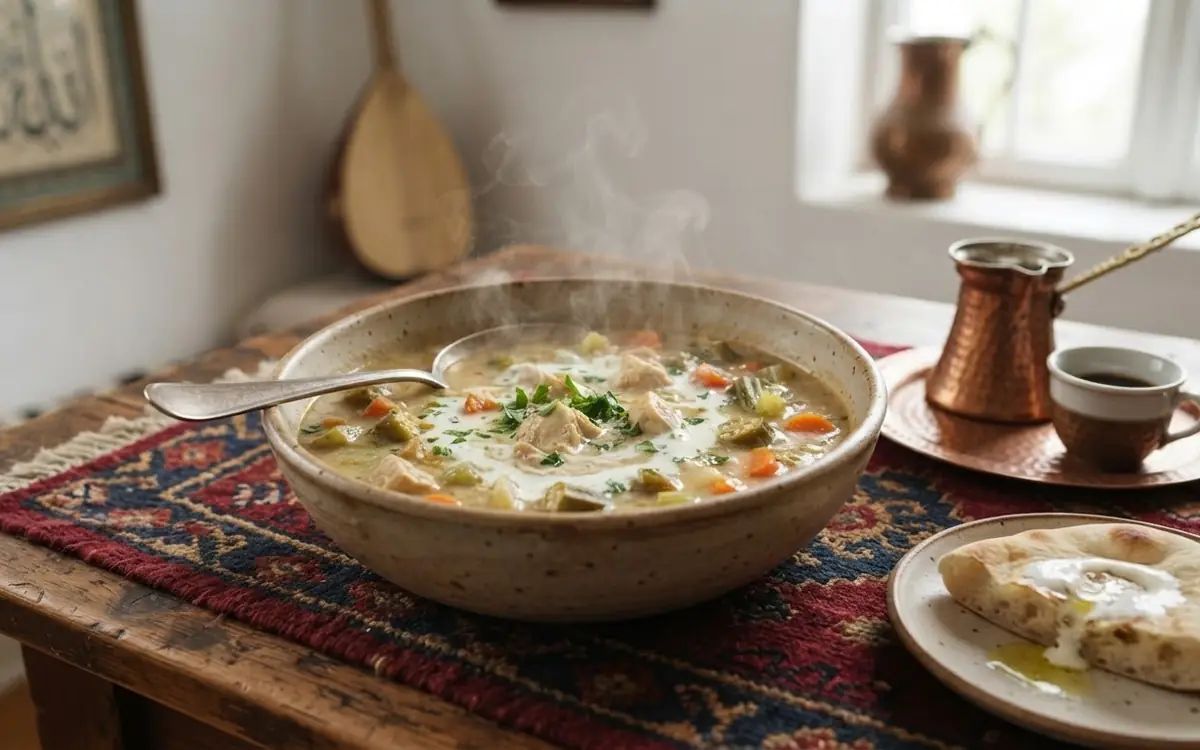
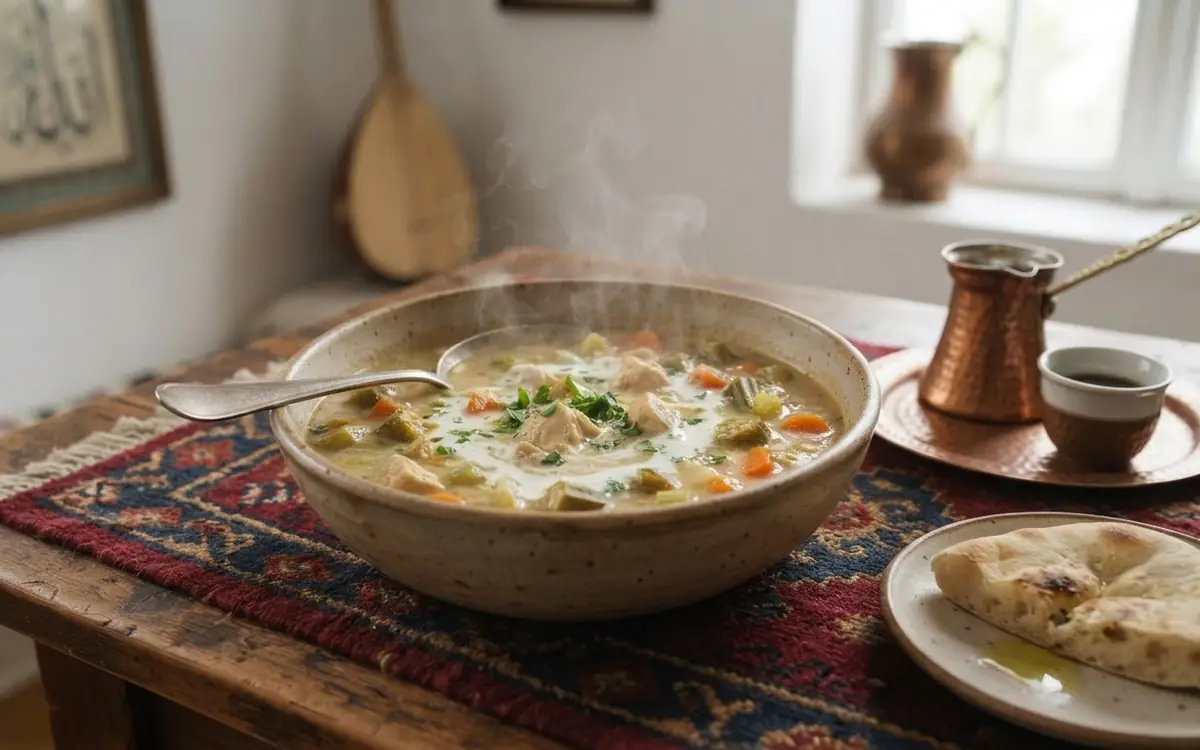
New begova čorba photo
Claude-Session: https://claude.ai/code/session_01EjMnrAwdw6bpvR4Rsy2uN6

diff --git a/sw.js b/sw.js
@@ -1,5 +1,5 @@
 // Sofra service worker — offline app shell. Bump VERSION on every deploy that changes files.
-const VERSION = 'sofra-v26';
+const VERSION = 'sofra-v27';
 const FILES = [
   './',
   'index.html',
